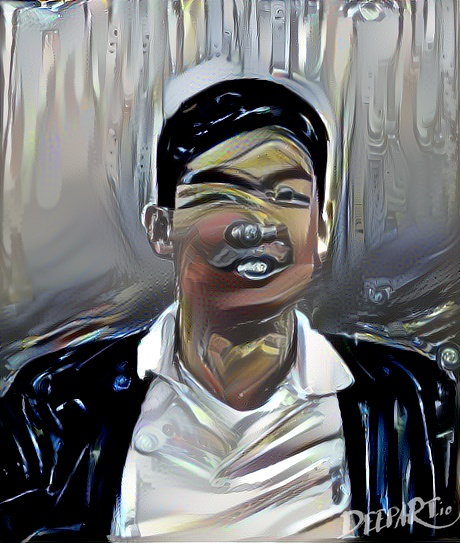
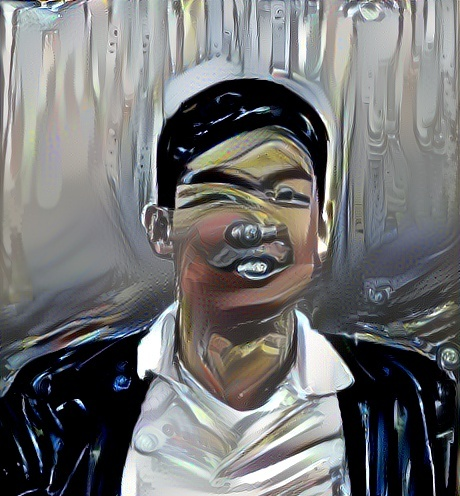
rebuilding site Sat Jun 12 13:14:36 EDT 2021

diff --git a/index.html b/index.html
@@ -608,7 +608,7 @@
 
       
       
-      <img class="avatar avatar-circle" src="/author/chankyu-lee/avatar_huf31a7d953f12f47330b6cff7662fca5a_114200_270x270_fill_q90_lanczos_center.jpg" alt="Chankyu Lee">
+      <img class="avatar avatar-circle" src="/author/chankyu-lee/avatar_hu57d5cbce521456b855b397d27684b998_108360_270x270_fill_q90_lanczos_center.jpg" alt="Chankyu Lee">
       
 
       <div class="portrait-title">
